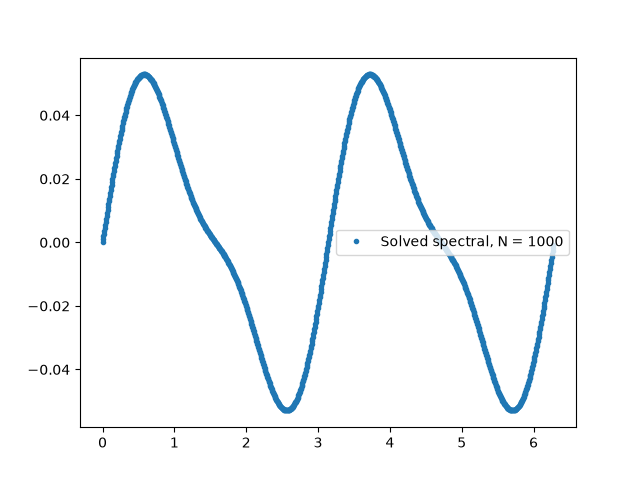
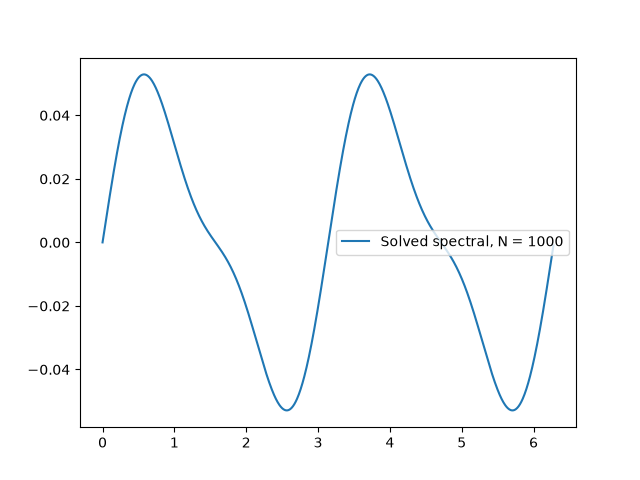
Created the code for problem 4.1

diff --git a/1DHeatEquation/4_1.py b/1DHeatEquation/4_1.py
@@ -1,0 +1,55 @@
+import numpy as np
+import matplotlib.pyplot as plt
+
+def Generate_D2(size: int, delta: float):
+    coeffecients = np.array([1, -2, 1])
+    row = np.roll(np.append(coeffecients, np.zeros(size - len(coeffecients))), -1)
+    return np.stack([np.roll(row, shift) for shift in range(size)]) / delta**2
+
+# As always, we will use an implicit scheme.
+def problem_a(start: np.ndarray, dt: float, dx: float) -> np.ndarray:
+    # U^(n + 1) = U^(n) + D^2 U^(n + 1) * dt
+    # => (I - dt * D^2)U^(n + 1) = U^(n)
+    # We define (I - dt * D^2) = A
+    # We define U^(n) = b
+    # Then we can apply bc and solve for U^(n + 1)
+    # A U^(n + 1) = b
+
+    size = len(start)
+    A = np.identity(size) - Generate_D2(size, dx) * dt
+    b = start
+
+    # Then we can apply out boundray conditions
+    A[0] = np.zeros(size)
+    A[0][0] = 1 # The Diriclet
+    A[-1] = np.zeros(size)
+    A[-1][-4:] = np.array([2, -5, 4, -1]) * dx**2 # Is this correct? If the result is wierd check here...
+
+    b[0] = 1
+    b[-1] = 0
+
+    return np.linalg.solve(A, b)
+   
+def problem_b() -> None:
+    grid_count = 1000
+    grid_values = np.linspace(0, 1, 1000)
+    u = np.exp(-5 * grid_values)
+    dx = 1 / (grid_count - 1)
+
+    dt = 0.05
+    times = np.arange(0, 3, dt)
+    plot_indices = np.arange(0, 3.01, 0.5) / dt
+
+    plt.figure()
+
+    for i, time in enumerate(times):
+        u = problem_a(u, dt, dx)
+
+        if i in plot_indices:
+            plt.errorbar(grid_values, u, fmt="-", label=f"Val for time = {time}, iteration = {i}")
+
+    plt.legend()
+    plt.savefig("HeatPlot.png")
+
+problem_b()
+    

diff --git a/SpectralMethod/3_9.py b/SpectralMethod/3_9.py
@@ -31,7 +31,7 @@ def problem_a() -> None:
     u, x = solve(1000)
 
     plt.figure()
-    plt.errorbar(x, u, fmt = ".", label = "Solved spectral, N = 1000")
+    plt.errorbar(x, u, fmt = "-", label = "Solved spectral, N = 1000")
     plt.legend()
     plt.savefig("SpectralN1000.png")
 
@@ -76,7 +76,7 @@ def problem_c() -> None:
     spectral_true_u, spectral_true_x = solve(1000)
 
     plt.figure()
-    plt.errorbar(spectral_true_x, spectral_true_u, fmt = ".", label = "Spectral using N = 1000")
+    plt.errorbar(spectral_true_x, spectral_true_u, fmt = "-", label = "Spectral using N = 1000")
     plt.errorbar(spectral_x, spectral_u, fmt = "--", label = "Spectral using N = 20")
     plt.errorbar(grid_points, grid_values, fmt = ".", label = "Finite difference using N = 20")
     plt.legend()
